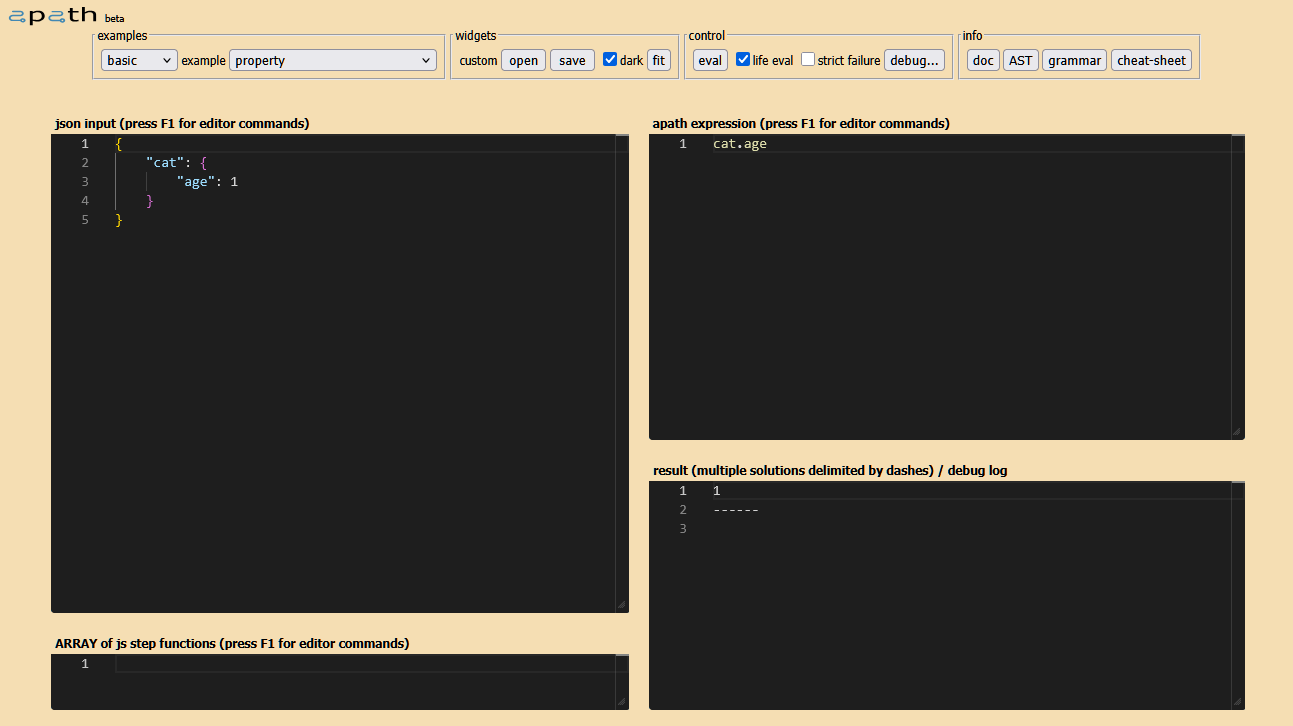
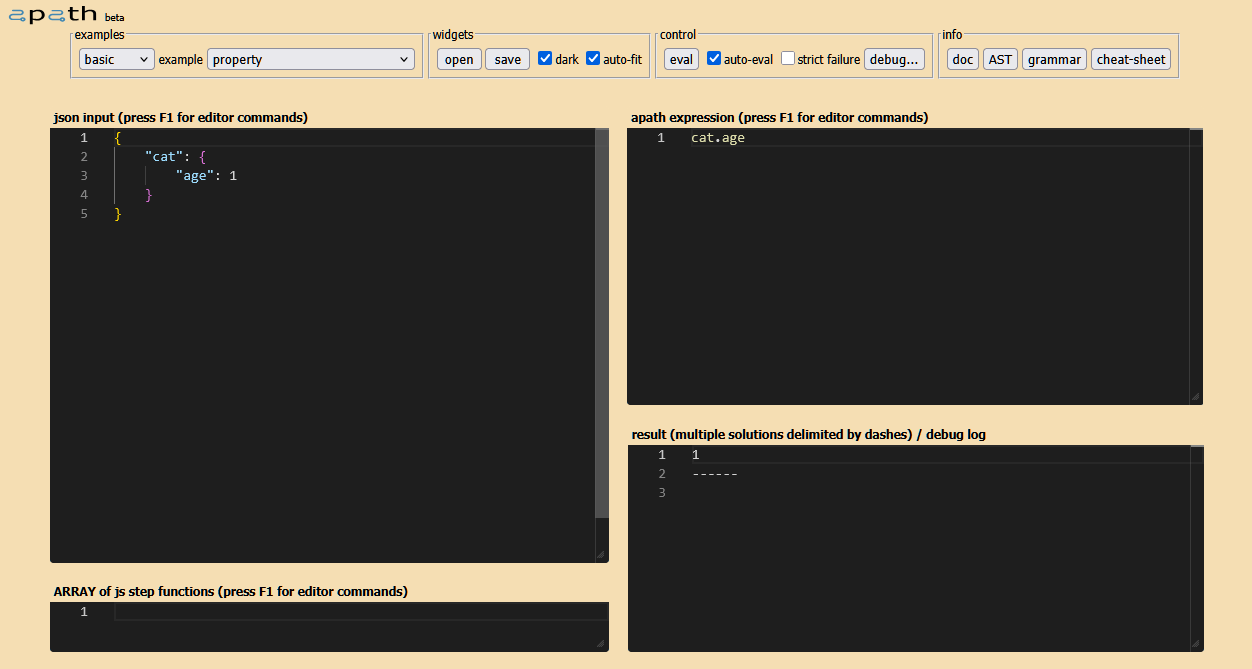
eastern milestone cont.

diff --git a/workbench/workbench-1.html b/workbench/workbench-1.html
@@ -42,7 +42,7 @@
             <div id='grp_layout'>
                 <input type="file" id="file-input" hidden />
 
-                <span>custom</span>
+                <!-- <span>custom</span> -->
                 <span class='button'>
                     <input style="width: 45px;" id='bnt_restore' type='button'
                         title='restores widgets from file (no key due to security)' value='open' />
@@ -53,11 +53,11 @@
                 </span>
                 <!-- <span>...custom |</span> -->
                 <span title='dark editors (Ctrl+B)'><label><input id='toggle_dark' type='checkbox' />dark</label></span>
-                <span class='button' >
+                <span class='button' hidden>
                     <input id='bnt_fit' type='button' title='fitting widgets' value='fit' />
                 </span>
-                <span title='fitting widgets on window resize' hidden><label><input id='toggle_fit'
-                            type='checkbox' />live fit</label></span>
+                <span title='fitting widgets on window resize'><label><input id='toggle_fit'
+                            type='checkbox' />auto-fit</label></span>
             </div>
         </fieldset>
         <fieldset id="fset_control">
@@ -68,8 +68,7 @@
                         value='eval' />
                 </span>
                 <span title='evaluation on change (Ctrl+Numpad0)'><label>
-                        <input id='toggle_live_eval' type='checkbox' />life
-                        eval</label></span>
+                        <input id='toggle_live_eval' type='checkbox' />auto-eval</label></span>
                 <span title='strict failure'><label><input id='toggle_strict_failure' type='checkbox' />strict
                         failure</label></span>
                 <span class='button'>

diff --git a/workbench/bundle-rollup.js b/workbench/bundle-rollup.js
@@ -8022,9 +8022,9 @@
         /**
          * Evaluation over an input javascript object
          * @param input input javascript object
-         * @returns the first raw result, either a single object or an iterator (cmp. {@link evaluate})
+         * @returns the raw result, either a single object or an iterator (cmp. {@link evaluate})
          */
-        evaluate_raw_first(input) {
+        evaluate_raw(input) {
             try {
                 return this.resolved_transpilat(this.create_root_env(input), input);
             }

diff --git a/workbench/programmatic/apath-lib-cjs.js b/workbench/programmatic/apath-lib-cjs.js
@@ -7688,9 +7688,9 @@ class Evaluator {
     /**
      * Evaluation over an input javascript object
      * @param input input javascript object
-     * @returns the first raw result, either a single object or an iterator (cmp. {@link evaluate})
+     * @returns the raw result, either a single object or an iterator (cmp. {@link evaluate})
      */
-    evaluate_raw_first(input) {
+    evaluate_raw(input) {
         try {
             return this.resolved_transpilat(this.create_root_env(input), input);
         }

diff --git a/workbench/programmatic/apath-lib-es.js b/workbench/programmatic/apath-lib-es.js
@@ -7686,9 +7686,9 @@ class Evaluator {
     /**
      * Evaluation over an input javascript object
      * @param input input javascript object
-     * @returns the first raw result, either a single object or an iterator (cmp. {@link evaluate})
+     * @returns the raw result, either a single object or an iterator (cmp. {@link evaluate})
      */
-    evaluate_raw_first(input) {
+    evaluate_raw(input) {
         try {
             return this.resolved_transpilat(this.create_root_env(input), input);
         }

diff --git a/workbench/main_w.js b/workbench/main_w.js
@@ -216,7 +216,7 @@ $('#select_topics').on('change', function (e) {
 })
 
 $('#toggle_fit').on('change', function (e) {
-    fit(undefined, true)
+    if ($('#toggle_fit').prop('checked')) fit(undefined, true)
 })
 
 $('#bnt_grammar').on('click', function () {
@@ -348,7 +348,7 @@ $('#toggle_strict_failure').prop('checked', false)
 $('#toggle_arrays_as_seq').prop('checked', false)
 $(function () {
     console.log('ready!')
-    // window.onresize = fit
+    window.onresize = fit
     fit(undefined, true)
 })
 

diff --git a/workbench/workbench-1.css b/workbench/workbench-1.css
@@ -248,7 +248,7 @@ body {
 
 html,
 body {
-    min-width: 1180px;
+    min-width: 1200px;
     height: 100%;
 }
 
